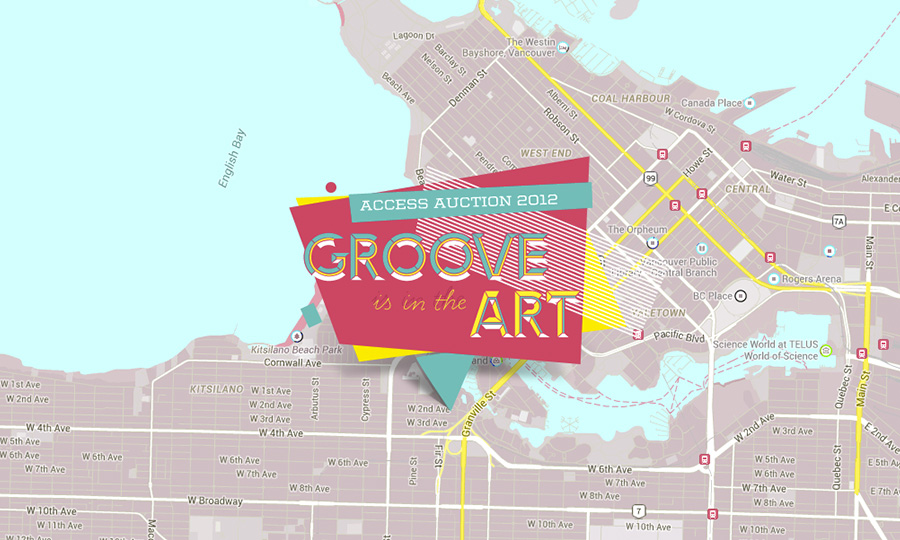
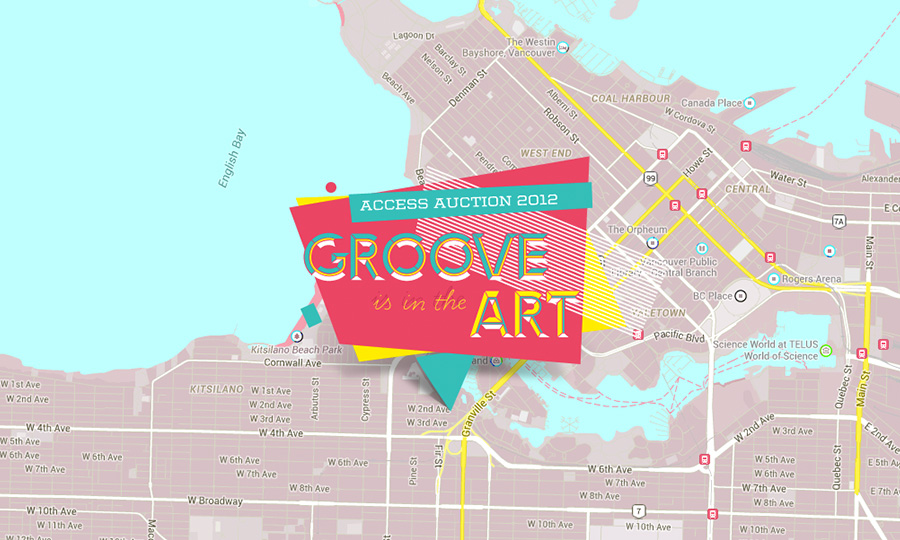
updated image colour profiles

diff --git a/index.html b/index.html
@@ -86,67 +86,67 @@
               
               <div class="grid-sizer"></div>
               
-              <a href="cannery" id="cannery" class="item full-width project1" style="background-image: url('img/cannery.jpg');"> 
+              <a href="cannery.html" id="cannery" class="item full-width project1" style="background-image: url('img/cannery.jpg');"> 
                 <div class="caption parent">
                   <p><span>Gulf of Georgia Cannery</span></p>    
                 </div><!-- .caption -->              
               </a><!-- .item -->
               
-              <a href="deadhead" id="deadhead" class="item project1" style="background-image: url('img/deadhead.jpg');">
+              <a href="deadhead.html" id="deadhead" class="item project1" style="background-image: url('img/deadhead.jpg');">
                 <div class="caption parent">
                     <p><span>Other Sights &mdash; Deadhead</span></p>    
                 </div><!-- .caption -->
               </a><!-- .item -->
               
-              <a href="anthem-jackson" id="anthem" class="item project1" style="background-image: url('img/anthem.jpg');">
+              <a href="anthem-jackson.html" id="anthem" class="item project1" style="background-image: url('img/anthem.jpg');">
                 <div class="caption parent">
                     <p><span>Anthem Jackson Productions</span></p>    
                 </div><!-- .caption -->
               </a><!-- .item -->
 
-              <a href="osei-duro" id="osei" class="item full-width project1" style="background-image: url('img/osei.jpg');">
+              <a href="osei-duro.html" id="osei" class="item full-width project1" style="background-image: url('img/osei.jpg');">
                 <div class="caption parent">
                     <p><span>Osei-Duro Clothing</span></p>    
                 </div><!-- .caption -->
               </a><!-- .item -->
 
-              <a href="kusic" id="kusic" class="item full-width project1" style="background-image: url('img/kusic.jpg');">
+              <a href="kusic.html" id="kusic" class="item full-width project1" style="background-image: url('img/kusic.jpg');">
                 <div class="caption parent">
                     <p><span>Kusic & Kusic PI</span></p>    
                 </div><!-- .caption -->
               </a><!-- .item -->
 
-              <a href="wasserman" id="wasserman" class="item full-width project1" style="background-image: url('img/wasserman.jpg');">
+              <a href="wasserman.html" id="wasserman" class="item full-width project1" style="background-image: url('img/wasserman.jpg');">
                 <div class="caption parent">
                     <p><span>Wasserman + Partners Advertising</span></p>    
                 </div><!-- .caption -->
               </a><!-- .item -->
 
-              <a href="ola" id="ola" class="item project1" style="background-image: url('img/ola.jpg');">
+              <a href="ola.html" id="ola" class="item project1" style="background-image: url('img/ola.jpg');">
                 <div class="caption parent">
                     <p><span>Ola Cholewa</span></p>    
                 </div><!-- .caption -->
               </a><!-- .item -->
 
-              <a href="groove" id="groove" class="item project1" style="background-image: url('img/accessauction.jpg');">
+              <a href="groove.html" id="groove" class="item project1" style="background-image: url('img/accessauction.jpg');">
                 <div class="caption parent">
                     <p><span>Access Gallery Auction</span></p>    
                 </div><!-- .caption -->
               </a><!-- .item -->
 
-              <a href="rugby-construction" id="rugby" class="item full-width project1" style="background-image: url('img/rugby.jpg');">
+              <a href="rugby-construction.html" id="rugby" class="item full-width project1" style="background-image: url('img/rugby.jpg');">
                 <div class="caption parent">
                     <p><span>Rugby Construction</span></p>    
                 </div><!-- .caption -->
               </a><!-- .item -->
 
-              <a href="waterfall-events" id="waterfall" class="item project1" style="background-image: url('img/waterfall.jpg');">
+              <a href="waterfall-events.html" id="waterfall" class="item project1" style="background-image: url('img/waterfall.jpg');">
                 <div class="caption parent">
                     <p><span>Waterfall Events</span></p>    
                 </div><!-- .caption -->
               </a><!-- .item -->
 
-              <a href="serv" id="serv" class="item project1" style="background-image: url('img/serv.jpg');">
+              <a href="serv.html" id="serv" class="item project1" style="background-image: url('img/serv.jpg');">
                 <div class="caption parent">
                     <p><span>The Sunday Service</span></p>    
                 </div><!-- .caption -->
